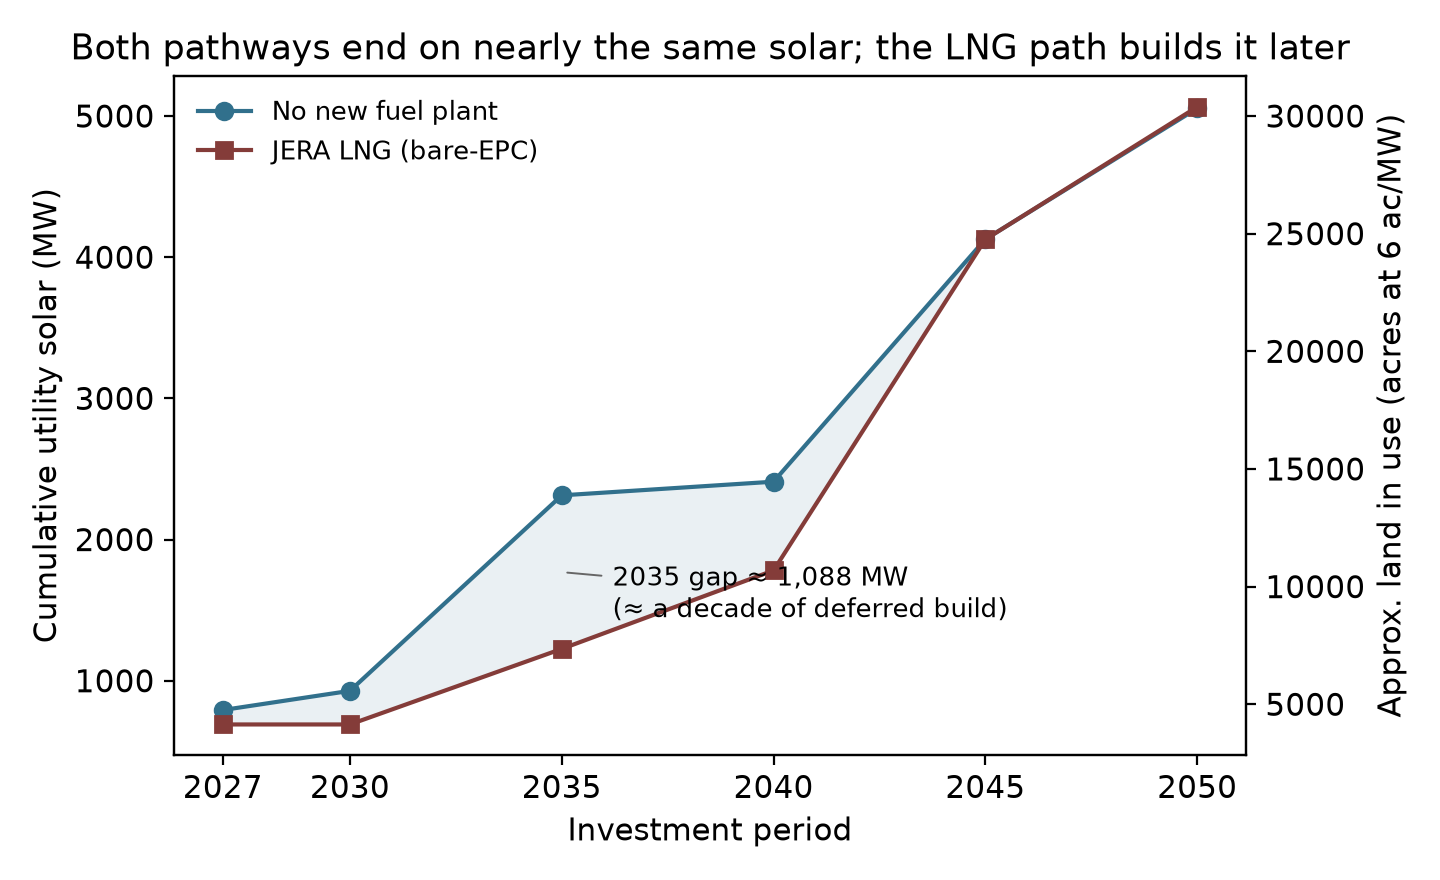
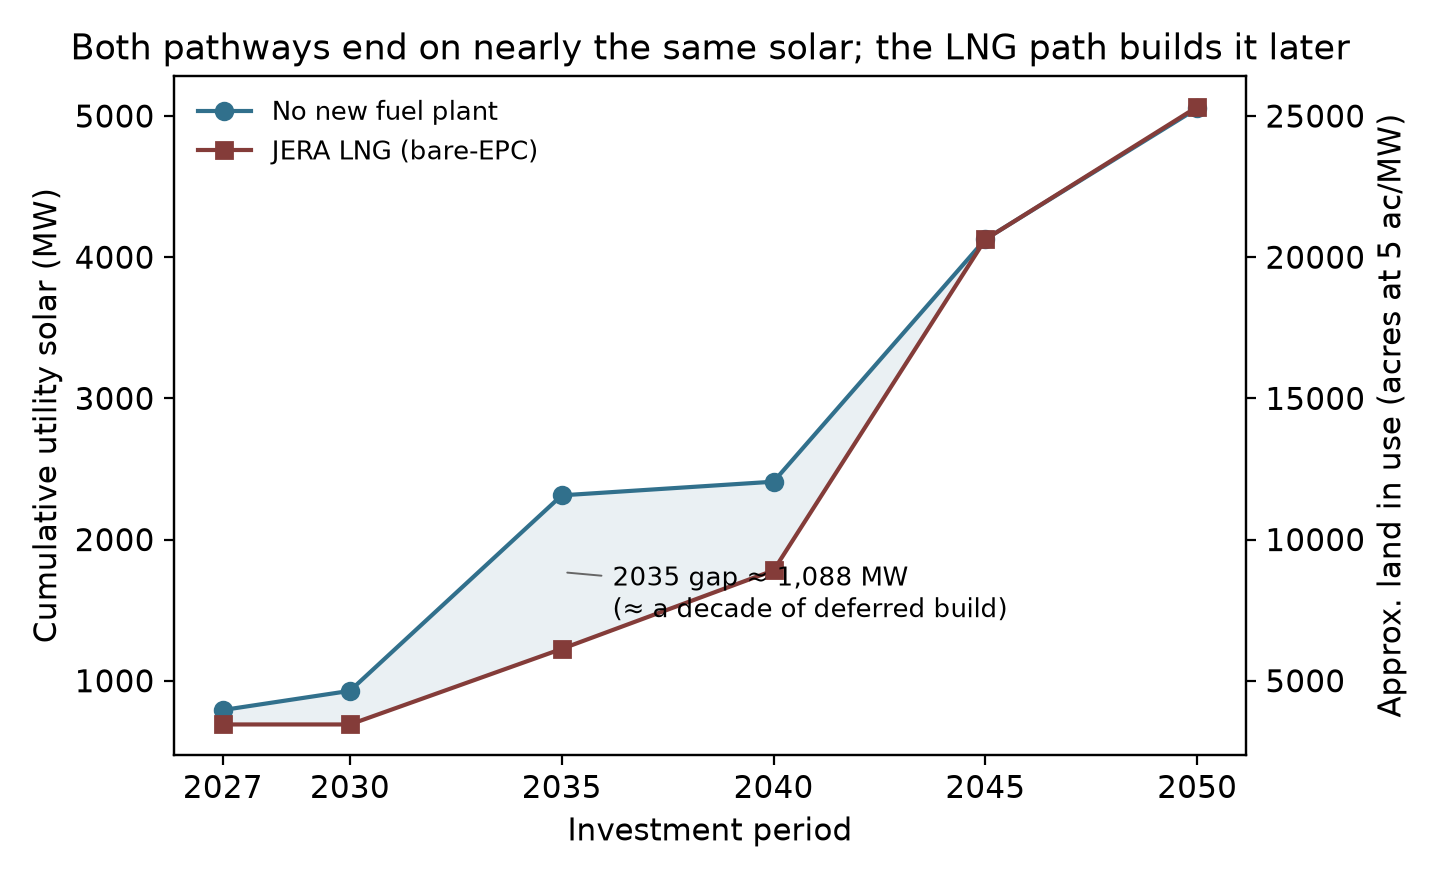
Sync: single 5 acres/MW land convention throughout

diff --git a/report/figures/make_report_figures.py b/report/figures/make_report_figures.py
@@ -132,8 +132,8 @@ def fig_land():
     ax.plot(years, series(je), marker="s", color="#843c39",
             label="JERA LNG (bare-EPC)")
     ax2 = ax.twinx()
-    ax2.set_ylabel("Approx. land in use (acres at 6 ac/MW)")
-    ax2.set_ylim(ax.get_ylim()[0] * 6, ax.get_ylim()[1] * 6)
+    ax2.set_ylabel("Approx. land in use (acres at 5 ac/MW)")
+    ax2.set_ylim(ax.get_ylim()[0] * 5, ax.get_ylim()[1] * 5)
     ax.set_ylabel("Cumulative utility solar (MW)")
     ax.set_xlabel("Investment period")
     ax.set_xticks(years)

diff --git a/report/DRAFT_v7_full.md b/report/DRAFT_v7_full.md
@@ -132,8 +132,8 @@ November day with an evening peak (Section 5). The constructed systems can run
 an indefinite number of even this most-difficult day.
 
 **Land.** Under the 2045 mandate, an LNG plant changes little about the solar
-buildout: in our optimal solutions the LNG path uses about 30,600 acres of 
-utility solar by 2050 against the clean path's 30,300, a difference under one 
+buildout: in our optimal solutions the LNG path uses about 25,500 acres of 
+utility solar by 2050 against the clean path's 25,300, a difference under one 
 percent, built about a decade later, with gas-fired generation filling the interim. 
 Hawaiian Electric's and the State Energy Office's own studies build less 
 grid-scale solar overall but show the same pattern within their scenarios: 
@@ -436,8 +436,17 @@ Hawaiʻi adds is time, queues, and risk premia — all of which policy can reduc
 
 ### 2.5 Does Oʻahu have enough land?
 
-The model's least-cost build reaches 5,054 MW of utility-scale solar by 2050,
-about 30,300 acres at a conservative six acres per MW. The screen's rule is
+The model's least-cost build reaches 5,054 MW of utility-scale solar by 2050.
+How much land a solar farm needs per megawatt has fallen steadily as panels
+have grown more efficient. The conventional figure is about six acres per
+megawatt, which counts the full site — the spacing between rows, access roads,
+and setbacks, not the panels alone; the panels' own footprint is smaller,
+under five acres, and tracking arrays use more land than fixed-tilt ones
+(Bolinger and Bolinger, *Land Requirements for Utility-Scale PV*, Lawrence
+Berkeley National Laboratory, emp.lbl.gov/publications/land-requirements-utility-scale-pv).
+Because that density keeps improving, we use five acres per megawatt
+throughout, a reasonable value for a 2030s-and-later buildout, which puts the
+2050 build at about 25,300 acres. The screen's rule is
 fully documented: it admits agricultural/country-zoned 
 land only; subtracts Class A soils, golf courses, road buffers, slopes above 10 
 percent, and (via the zoning filter) military installations; and caps prime 
@@ -473,10 +482,10 @@ pathways themselves, then from the land records.
 
 **Every mandate-compliant pathway builds nearly the same solar with and 
 without LNG.** In our solutions the no-new-fuel-plant path reaches 5,054 MW 
-of utility-scale solar by 2050 (about 30,300 acres); the JERA LNG path reaches 
-5,097 MW on 30,582 acres — a difference under one percent, and in this solution 
+of utility-scale solar by 2050 (about 25,300 acres); the JERA LNG path reaches 
+5,097 MW on 25,500 acres — a difference under one percent, and in this solution 
 the LNG path ends slightly *higher*. What changes is timing and what fills the gap:
-in 2035 the JERA path has about 900 MW less solar built (roughly 5,400
+in 2035 the JERA path has about 1,100 MW less solar built (roughly 5,400
 acres less land then in use), with gas-fired generation supplying the
 difference until the mandate closes the gap by 2045 (Figure 2.1). 
 
@@ -577,14 +586,8 @@ surfaces; and two categories the companion study is now investigating
 parcel by parcel — federal landholdings (where tenure, mission constraints,
 and the 2029 state-land lease questions require careful treatment) and
 closed golf acreage (which the screen subtracts regardless of operating
-status). None of these is counted in the 27,256 eligible acres. (That eligible
-figure and the roughly 30,300-acre build footprint are stated on different
-area-per-MW conventions, so they are not read against each other directly. The
-screen sizes its 5,451 MW solar resource cap at 5.0 acres per MW, which gives
-the 27,256 acres; the footprint above applies a more conservative 6.0 acres per
-MW to the 5,054 MW actually built. Restated on a common 6.0-acre basis the
-eligible inventory is about 32,700 acres, above the build, and the relaxed
-terrain rule raises it further.) The
+status). None of these is counted in the 27,256 eligible acres, which itself
+exceeds the roughly 25,300 acres the least-cost build actually uses. The
 companion land study (github.com/mikejrob/solar-wind-landuse) is the living
 inventory where these categories are being mapped and characterized, and
 contributions — corrections, parcels, local knowledge — are welcome there.
@@ -738,7 +741,7 @@ cases; see docs/SOLVER_NOTES.md in the repository.
 
 Enhanced Geothermal also saves land. Comparing the solved base case against
 its no-EGS counterpart, the 100 MW block displaces 394 MW of utility solar,
-about 2,400 acres at six acres per MW, along with 145 MW (1,250 MWh) of
+about 2,000 acres at five acres per MW, along with 145 MW (1,250 MWh) of
 storage. And if the developable resource on Oʻahu proves larger than the
 roughly 100 MW modeled here, both cost and land requirements fall further.
 
